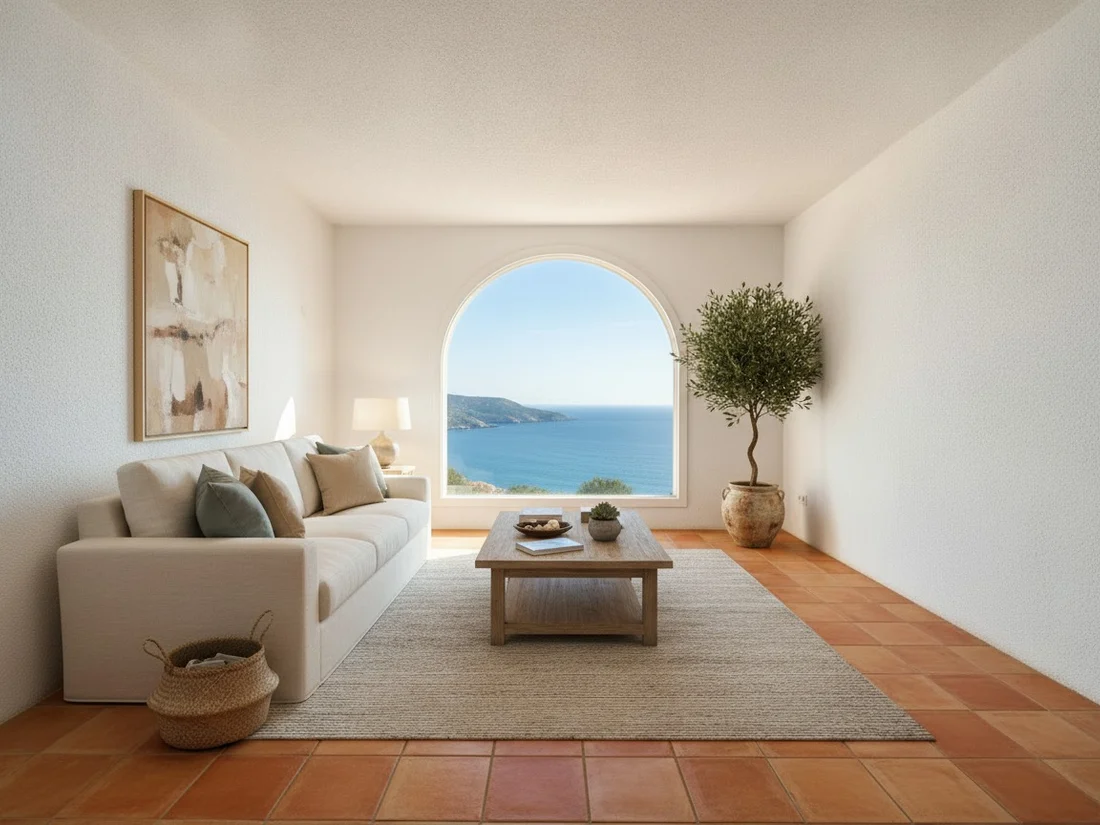
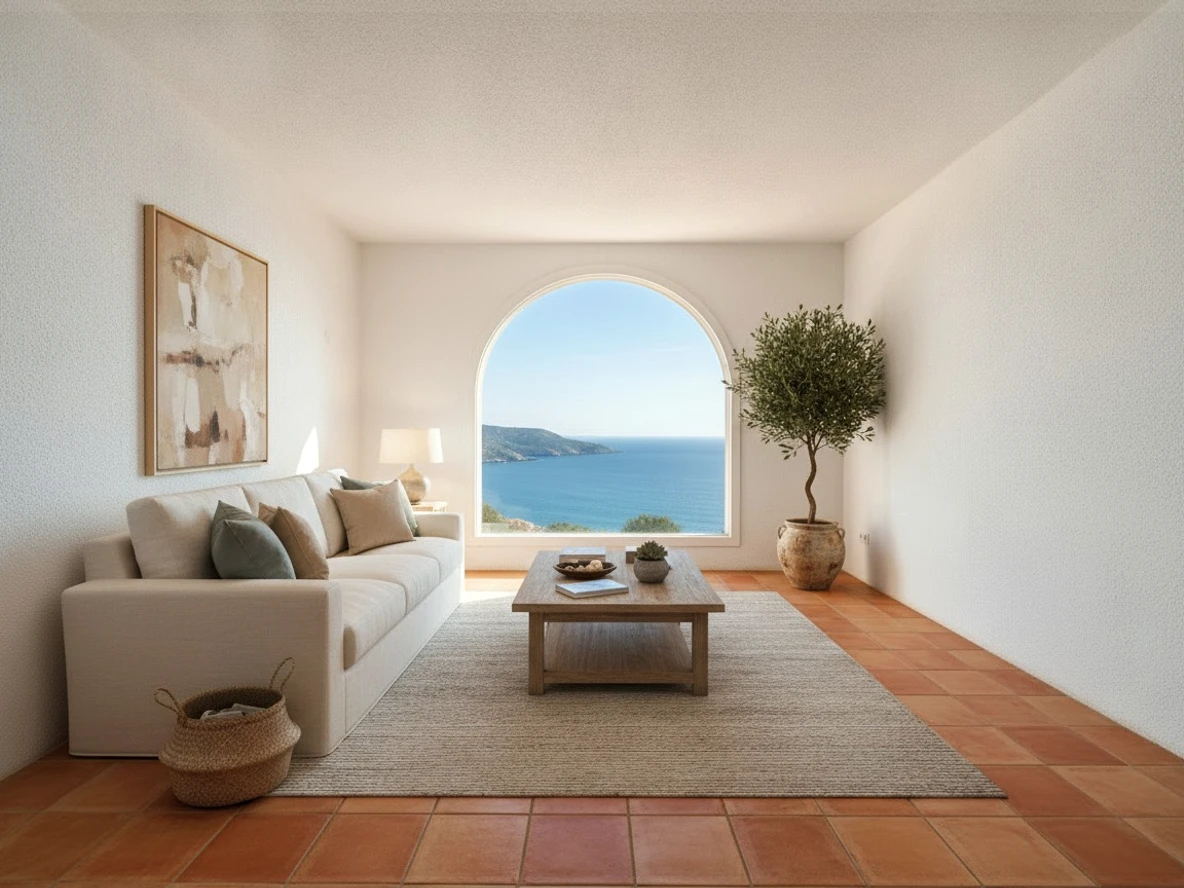
fix(landing): the before/after slider rendered PORTRAIT 630x825 — .ba img had width:100% + the height attribute but no height:auto (same bug class as yesterday's print fix, missed this selector), so the browser used height=825 literally, object-fit:cover center-cropped a narrow slice of the landscap

diff --git a/marketing/v2/index.html b/marketing/v2/index.html
@@ -199,7 +199,7 @@
   .f1:hover{transform:rotate(0deg) translateY(-4px)}
   .f2:hover{transform:rotate(0deg) translateY(12px)}
   .ba{position:relative;border-radius:12px;overflow:hidden;box-shadow:var(--shadow-sm);margin-top:20px;user-select:none}
-  .ba img{width:100%;aspect-ratio:4/3;object-fit:cover;display:block}
+  .ba img{width:100%;height:auto;aspect-ratio:4/3;object-fit:cover;display:block}
   .ba .after{position:absolute;inset:0;clip-path:inset(0 0 0 var(--pos,50%))}
   .ba .balab{position:absolute;bottom:10px;font-family:var(--mono);font-size:.58rem;letter-spacing:.12em;color:#fff;background:rgba(38,48,42,.55);padding:3px 9px;border-radius:5px;z-index:3;pointer-events:none}
   .ba .handle{position:absolute;top:0;bottom:0;left:var(--pos,50%);width:2px;background:#fff;box-shadow:0 0 8px rgba(0,0,0,.35);z-index:3;pointer-events:none}
@@ -506,8 +506,8 @@
         <p class="sub" data-i18n="st_sub">On-brand posts, carousels and property cards from your own listings &mdash; and renovation visuals that show what a house could become.</p>
       </div>
       <div class="ba" id="ba" style="--pos:50%">
-        <img src="assets/v3/reno-before.webp" alt="Empty Mediterranean living room" width="1100" height="825" loading="lazy" />
-        <div class="after"><img src="assets/v3/reno-after.webp" alt="The same room, furnished and staged" width="1100" height="825" loading="lazy" /></div>
+        <img src="assets/v3/reno-before.webp" alt="Empty Mediterranean living room" width="1184" height="888" loading="lazy" />
+        <div class="after"><img src="assets/v3/reno-after.webp" alt="The same room, furnished and staged" width="1184" height="888" loading="lazy" /></div>
         <span class="balab" style="left:10px" data-i18n="st_before">BEFORE</span>
         <span class="balab" style="right:10px" data-i18n="st_after">AFTER</span>
         <div class="handle"></div><div class="knob">&#8596;</div>